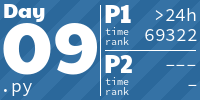
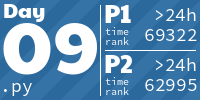
Day 9, part 2 - 2022

Changed region(s): [[0.72, 0.78, 0.99, 0.93], [0.78, 0.57, 0.99, 0.72]]

diff --git a/ibidem/advent_of_code/y2022/dec09.py b/ibidem/advent_of_code/y2022/dec09.py
@@ -1,6 +1,7 @@
 #!/usr/bin/env python
 import enum
 import re
+from itertools import pairwise
 
 import vectormath
 
@@ -47,13 +48,13 @@ def calculate_tail_move(tail, head):
             return Moves.Right
         case (-2., 0.):
             return Moves.Left
-        case (1., 2.) | (2., 1.):
+        case (1., 2.) | (2., 1.) | (2., 2.):
             return Moves.UpRight
-        case (-1., 2.) | (-2., 1.):
+        case (-1., 2.) | (-2., 1.) | (-2., 2.):
             return Moves.UpLeft
-        case (1., -2.) | (2., -1.):
+        case (1., -2.) | (2., -1.) | (2., -2.):
             return Moves.DownRight
-        case (-1., -2.) | (-2., -1.):
+        case (-1., -2.) | (-2., -1.) | (-2., -2.):
             return Moves.DownLeft
     return Moves.Stay
 
@@ -62,23 +63,37 @@ def part1(steps):
     visited = Board(size_x=14, size_y=10, fill_value=".")
     head = vectormath.Vector2(0, 0)
     tail = vectormath.Vector2(0, 0)
-    for step in steps:
-        move = Moves(step)
+    for move in (Moves(step) for step in steps):
         head += move.change
-        tail_move = calculate_tail_move(tail, head)
-        tail += tail_move.change
-
-        old_head = visited.set(int(head.x), int(head.y), "H")
-        visited.set(int(tail.x), int(tail.y), "T")
-        # visited.print(include_empty=True)
-        # print("-"*40)
-        visited.set(int(head.x), int(head.y), old_head)
+        tail = move_tail(head, tail)
         visited.set(int(tail.x), int(tail.y), "#")
     return visited.count("#")
 
 
-def part2(steps):
-    return None
+def move_tail(left, right):
+    tail_move = calculate_tail_move(right, left)
+    right += tail_move.change
+    return right
+
+
+def part2(steps, with_visual=False):
+    visited = Board(size_x=140, size_y=10, fill_value=".")
+    knots = [vectormath.Vector2(0, 0) for i in range(10)]
+    for move in (Moves(step) for step in steps):
+        knots[0] += move.change
+        for left, right in pairwise(range(len(knots))):
+            knots[right] = move_tail(knots[left], knots[right])
+        tail = knots[-1]
+        visited.set(int(tail.x), int(tail.y), "#")
+        if with_visual:
+            visual = Board(size_x=140, size_y=10, fill_value=".")
+            for i, knot in enumerate(knots):
+                label = "H" if i == 0 else str(i)
+                visual.set(int(knot.x), int(knot.y), label)
+            print("=" * 60)
+            visual.print()
+            print("=" * 60)
+    return visited.count("#")
 
 
 if __name__ == "__main__":

diff --git a/ibidem/advent_of_code/y2022/test/test_dec09.py b/ibidem/advent_of_code/y2022/test/test_dec09.py
@@ -59,7 +59,6 @@ class TestDec09():
         result = part1(loaded1)
         assert result == PART1_RESULT
 
-    @pytest.mark.skip(reason="Back later")
     def test_part2(self, loaded2):
-        result = part2(loaded2)
+        result = part2(loaded2, with_visual=True)
         assert result == PART2_RESULT
